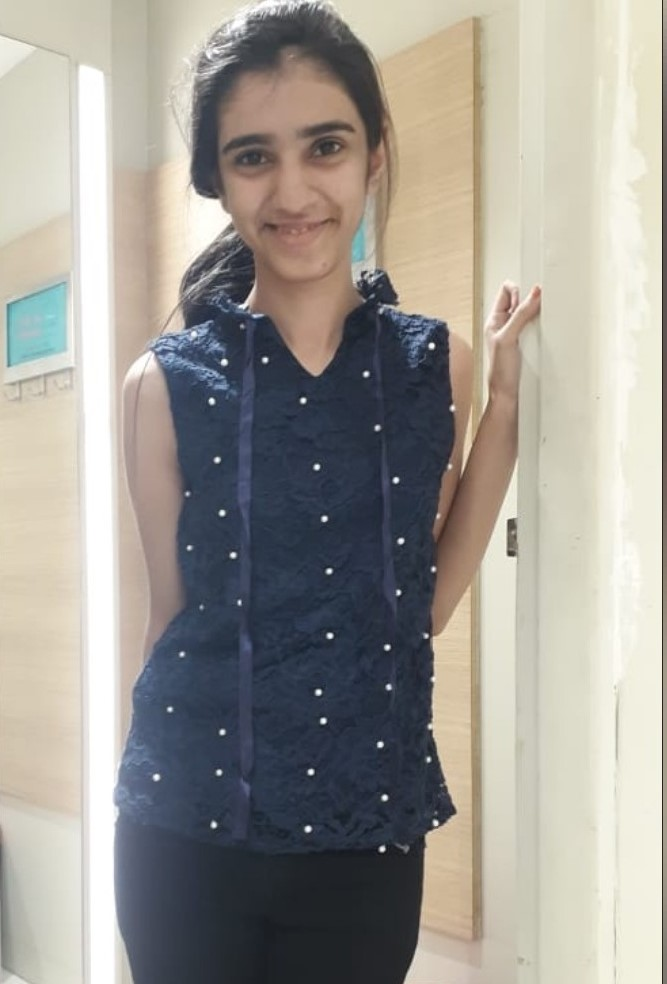
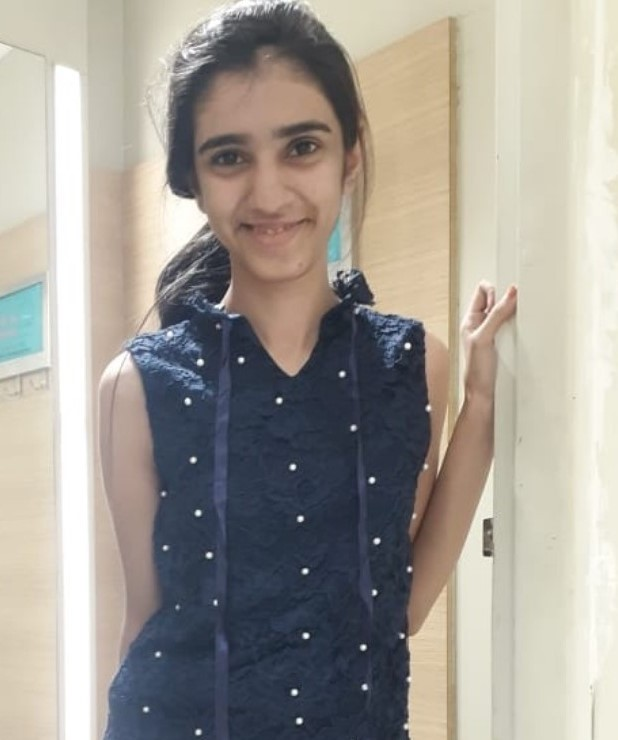
Add more details in portfolio

diff --git a/portfolio/src/main/webapp/index.html b/portfolio/src/main/webapp/index.html
@@ -8,14 +8,20 @@
   </head>
   <body>
     <div id="content">
-      <h1>My Portfolio(Astha)</h1>
+      <h1>My Portfolio</h1>
+      <h2> Astha Tiwari</h2>
       <p>This is my portfolio.</p>
-      <p> Hello I am Astha Tiwari from IIIT- Allahabad. </p>
+      
       <div class="image-thumbnails">
       <a href="images/asthas.jpg"><img src="images/asthas.jpg"/></a>
       </div>
-      <p>Click here to get a random message:</p>
-      <button onclick="addRandomGreeting()">Hello</button>
+
+      <P> Github profile <a href="https://github.com/asthaaaa">https://github.com/asthaaaa</a>
+      <P> Linkedin <a href="https://www.linkedin.com/in/astha-tiwari-967204173?lipi=urn%3Ali%3Apage%3Ad_flagship3_profile_view_base_contact_details%3BZuI60AD%2FTEqF82RU6D%2FjtA%3D%3D">linkedin.com/in/astha-tiwari-967204173</a>
+      <p> I am currently persuing my B. Tech in Information technology from IIIT- Allahabad. </p>
+      <p> Click <a href="gallery.html"> here</a> for see the gallery of IIIT Allahabad <p>
+      <p>Click here to get a random quote from Friends:</p>
+      <button onclick="addRandomGreeting()">F.R.I.E.N.D.S.</button>
       <div id="greeting-container"></div>
     </div>
   </body>

diff --git a/portfolio/src/main/webapp/gallery.html b/portfolio/src/main/webapp/gallery.html
@@ -1,0 +1,19 @@
+<html>
+  <head>
+    <meta charset="UTF-8">
+    <title>IIIT Allahabad Image Gallery</title>
+    <link rel="stylesheet" href="style.css">
+  </head>
+  <body>
+    <div id="content">
+      <h1>IIIT Allahabad Photo  Gallery</h1>
+      <div class="image-thumbnails">
+          <a href="images/iiita-pic0.jpg"><img src="images/iiita-pic0.jpg"/></a>
+          <a href="images/iiita-pic1.jpg"><img src="images/iiita-pic1.jpg"/></a>
+          <a href="images/iiita-pic2.jpg"><img src="images/iiita-pic2.jpg"/></a>
+          <a href="images/iiita-pic6.jpg"><img src="images/iiita-pic6.jpg"/></a>
+          <a href="images/iiita-pic7.jpg"><img src="images/iiita-pic7.jpg"/></a>
+    </div>
+     </div>
+  </body>
+  </html>

diff --git a/portfolio/src/main/webapp/script.js b/portfolio/src/main/webapp/script.js
@@ -17,7 +17,7 @@
  */
 function addRandomGreeting() {
   const greetings =
-      ['Hello world!', '¡Hola Mundo!', '你好，世界！', 'Bonjour le monde!'];
+      ['Joey doesn’t share food!', ' I wish I could, but I don’t want to.', 'How you doin?', 'They don’t know that we know they know we know.'];
 
   // Pick a random greeting.
   const greeting = greetings[Math.floor(Math.random() * greetings.length)];

diff --git a/portfolio/src/main/webapp/style.css b/portfolio/src/main/webapp/style.css
@@ -13,6 +13,6 @@
 
 .image-thumbnails img {
   margin: 10px;
-  max-height: 200px;
-  max-width: 200px;
+  max-height: 400px;
+  max-width: 300px;
 }
